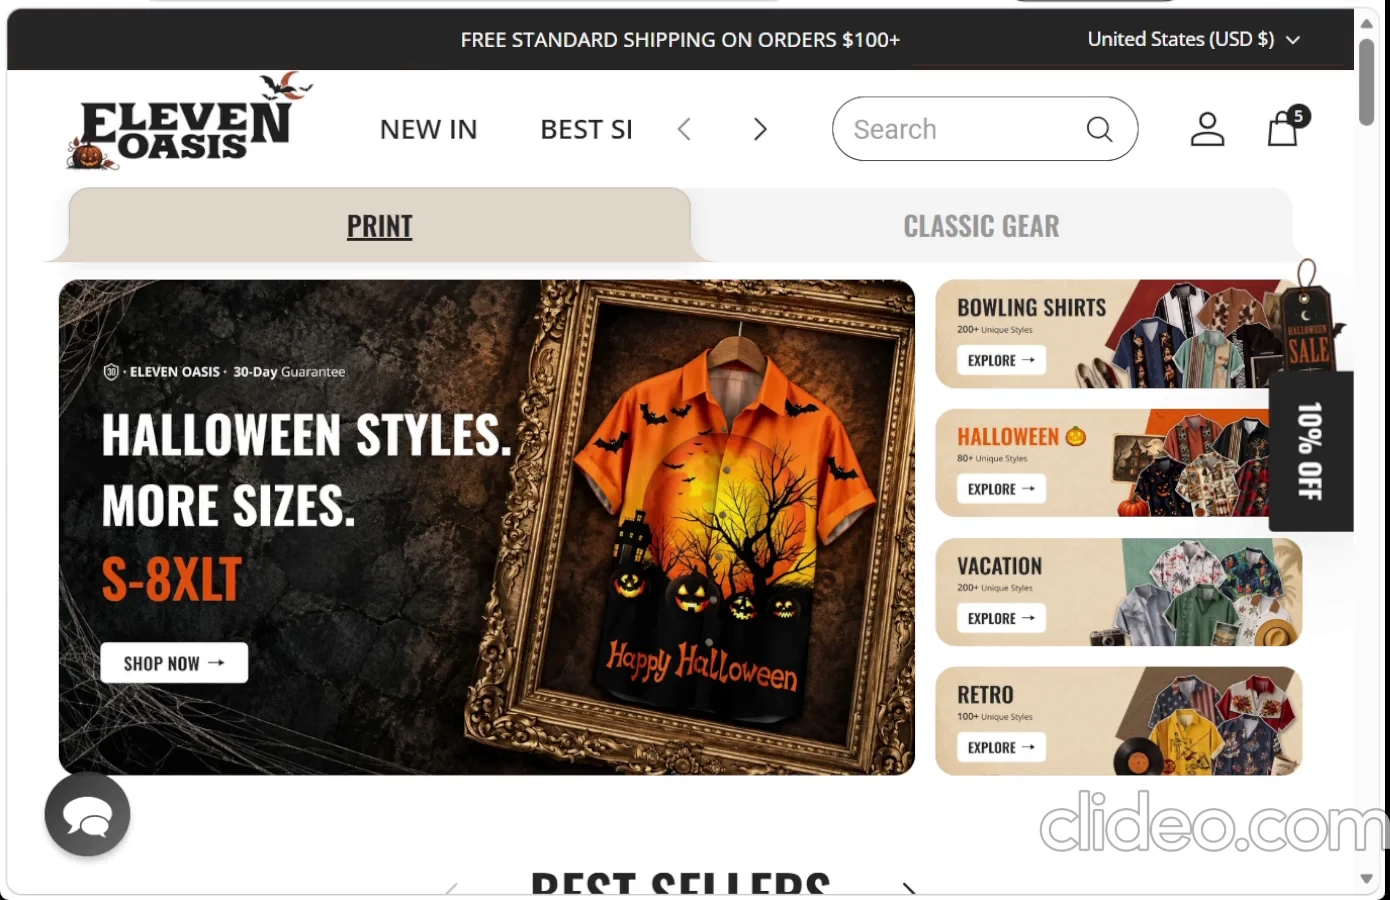
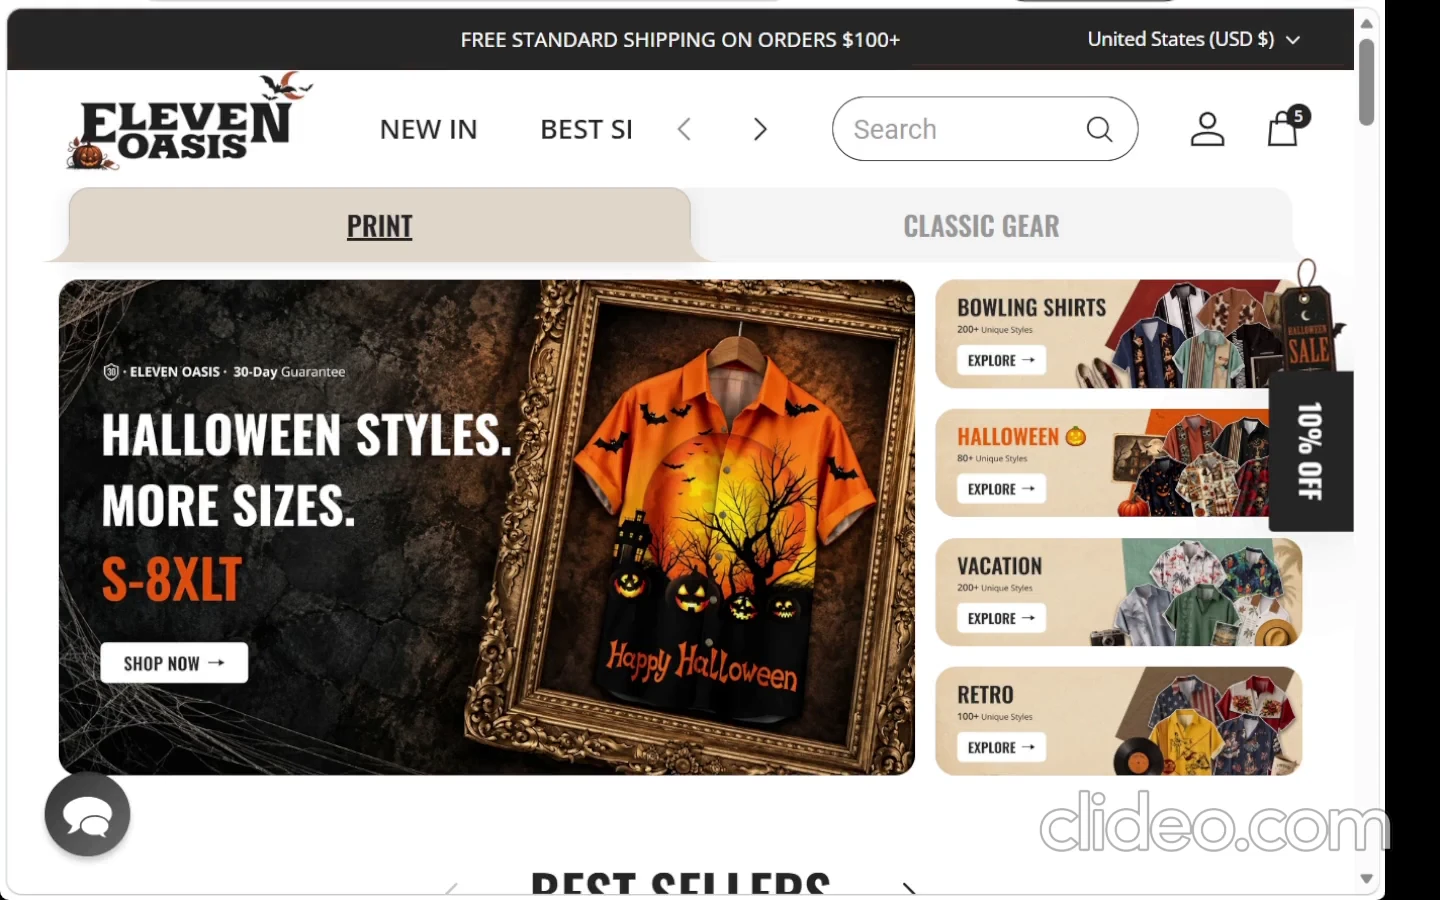
Preserve full Eleven Oasis recording and align its picture area

diff --git a/src/components/eleven-oasis/ElevenOasisMacbookVideo.tsx b/src/components/eleven-oasis/ElevenOasisMacbookVideo.tsx
@@ -108,25 +108,27 @@ export function ElevenOasisMacbookVideo() {
     <figure ref={root} className="eleven-macbook-showcase" aria-describedby={description}>
       <div className="eleven-macbook-device" data-playback={playback}>
         <div className="eleven-macbook-display">
-          <video
-            ref={video}
-            autoPlay muted loop playsInline preload="metadata"
-            poster={`${assets}/poster.webp`}
-            aria-label="Eleven Oasis website browsing demonstration"
-            aria-describedby={description}
-          />
-          <button
-            className="eleven-macbook-control"
-            type="button"
-            onClick={() => toggle.current()}
-            disabled={playback === "loading" || playback === "error"}
-            aria-label={playback === "error" ? "Website demo unavailable" : playback === "playing" ? "Pause website demo" : "Resume website demo"}
-            aria-describedby={description}
-          >
-            <span className="eleven-macbook-play-circle" aria-hidden="true">
-              <svg viewBox="0 0 24 24"><path d="M8 5L19 12L8 19Z" fill="currentColor" /></svg>
-            </span>
-          </button>
+          <div className="eleven-macbook-picture">
+            <video
+              ref={video}
+              autoPlay muted loop playsInline preload="metadata"
+              poster={`${assets}/poster.webp`}
+              aria-label="Eleven Oasis website browsing demonstration"
+              aria-describedby={description}
+            />
+            <button
+              className="eleven-macbook-control"
+              type="button"
+              onClick={() => toggle.current()}
+              disabled={playback === "loading" || playback === "error"}
+              aria-label={playback === "error" ? "Website demo unavailable" : playback === "playing" ? "Pause website demo" : "Resume website demo"}
+              aria-describedby={description}
+            >
+              <span className="eleven-macbook-play-circle" aria-hidden="true">
+                <svg viewBox="0 0 24 24"><path d="M8 5L19 12L8 19Z" fill="currentColor" /></svg>
+              </span>
+            </button>
+          </div>
         </div>
         <Image
           className="eleven-macbook-overlay"

diff --git a/src/components/eleven-oasis/ElevenOasisMacbookVideo.css b/src/components/eleven-oasis/ElevenOasisMacbookVideo.css
@@ -1,10 +1,14 @@
 .eleven-macbook-showcase { width: min(100%, 1200px); margin: 0 auto 28px; }
 .eleven-macbook-device { position: relative; width: 100%; aspect-ratio: 1600 / 1020; isolation: isolate; }
 /* Original 1600 × 1020 coordinates: x 208, y 137, w 1180, h 742.
-   The unchanged source-derived frame supplies the screen edge. The new 1390 ×
-   900 active recording loses only ~2.8% at its bottom when filling this display. */
-.eleven-macbook-display { position: absolute; left: 13%; top: 13.4313725%; width: 73.75%; height: 72.745098%; overflow: hidden; border-radius: 1.3559322% 1.3559322% 0 0 / 2.1563342% 2.1563342% 0 0; background: #000 url('/projects/eleven-oasis/demo/poster.webp') center top / cover no-repeat; outline: 2px solid #000; }
-.eleven-macbook-display video { display: block; width: 100%; height: 100%; object-fit: cover; object-position: center top; }
+   This outer opening includes black overscan beneath the unchanged bezel. */
+.eleven-macbook-display { position: absolute; left: 13%; top: 13.4313725%; width: 73.75%; height: 72.745098%; overflow: hidden; border-radius: 1.3559322% 1.3559322% 0 0 / 2.1563342% 2.1563342% 0 0; background: #000; outline: 2px solid #000; }
+/* Measured picture edges in the PNG: x 209, y 139, w 1178, bottom ~875.25.
+   1178 × 736.25 is 16:10, matching the ORIGINAL 1440 × 900 recording exactly.
+   Keep the entire frame, including its baked-in white border and watermark;
+   those require a clean source, not CSS cropping or a cover-up. */
+.eleven-macbook-picture { position: absolute; left: .0847458%; top: .2695418%; width: 99.8305085%; height: 99.2250674%; background: #000 url('/projects/eleven-oasis/demo/poster.webp') center / contain no-repeat; }
+.eleven-macbook-picture video { display: block; width: 100%; height: 100%; margin: 0; padding: 0; border: 0; object-fit: contain; object-position: center; background: transparent; }
 .eleven-macbook-device[data-playback="loading"] video,
 .eleven-macbook-device[data-playback="error"] video,
 .eleven-macbook-device[data-playback="blocked"] video { visibility: hidden; }

diff --git a/scripts/prepare-eleven-oasis-video.py b/scripts/prepare-eleven-oasis-video.py
@@ -1,10 +1,11 @@
 """Derive the case-study frame, screen video and poster from unchanged uploads.
 
 Run from the repository root with Python (Pillow) and ffmpeg installed.
-The new 1440x900 MP4 has a 50px encoded right margin. Set H.264 display cropping
-to 1390x900 without re-encoding: decoded pixels match the original active image
-exactly. Preserve all website UI, the existing watermark, and the source file.
-Remux with fast-start; omit unused audio from this muted showcase's served copy.
+Preserve the complete original 1440x900 frame, duration and aspect ratio.
+The white border, right black margin and clideo.com watermark are embedded in
+this recording. They cannot be removed under the no-crop/no-reconstruction
+requirements; a clean OBS export is required. Do not set H.264 crop metadata.
+Remux without re-encoding, with fast-start; omit unused audio in the muted copy.
 """
 from pathlib import Path
 import subprocess
@@ -18,7 +19,7 @@ subprocess.run([
     "ffmpeg", "-y", "-hide_banner", "-loglevel", "error",
     "-i", str(source / "eleven-oasis-homepage-demo1.mp4"),
     "-map", "0:v:0", "-c:v", "copy",
-    "-bsf:v", "h264_metadata=crop_right=50", "-an", "-movflags", "+faststart",
+    "-an", "-movflags", "+faststart",
     str(target / "homepage-demo1.mp4"),
 ], check=True)
 subprocess.run([
